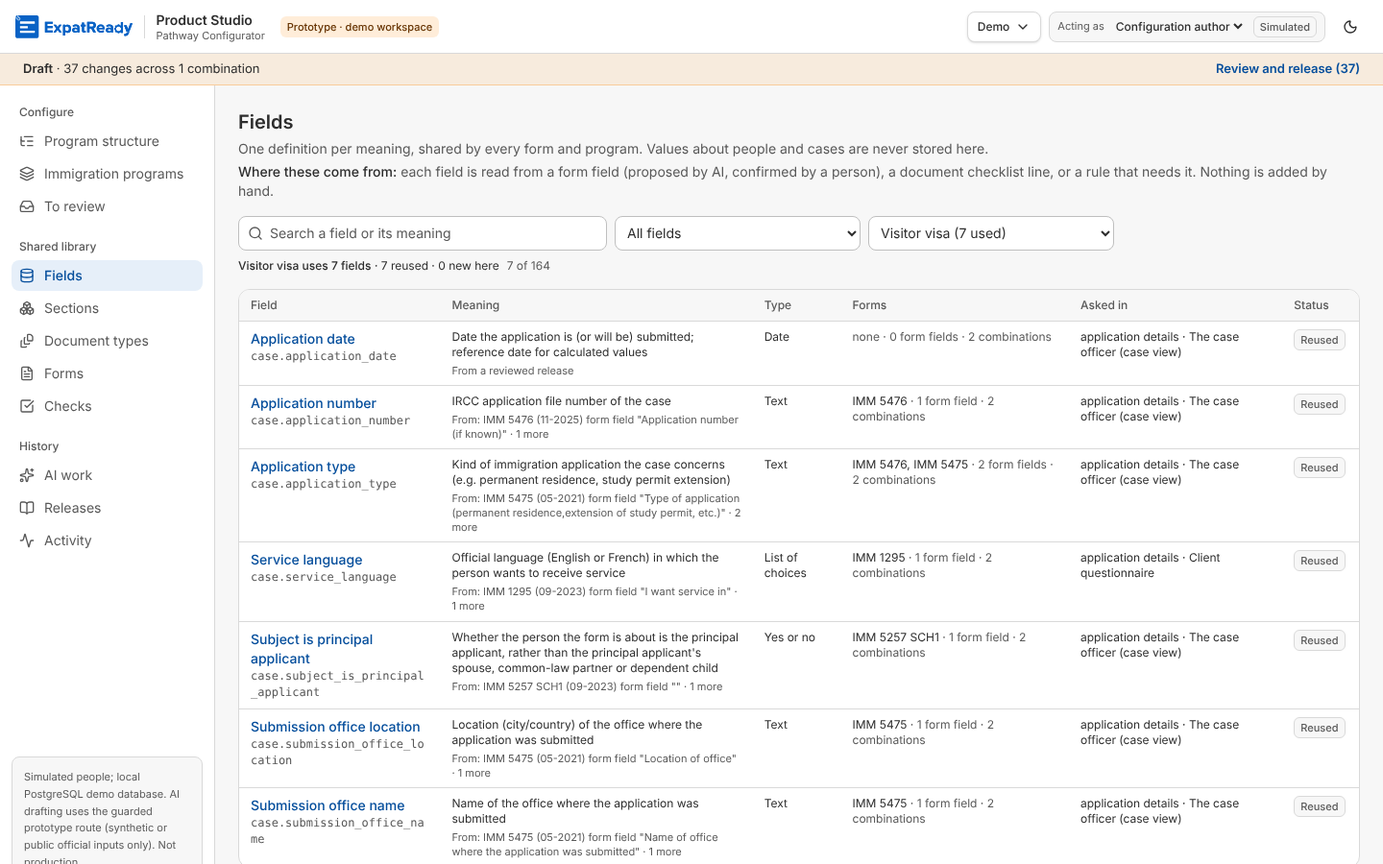
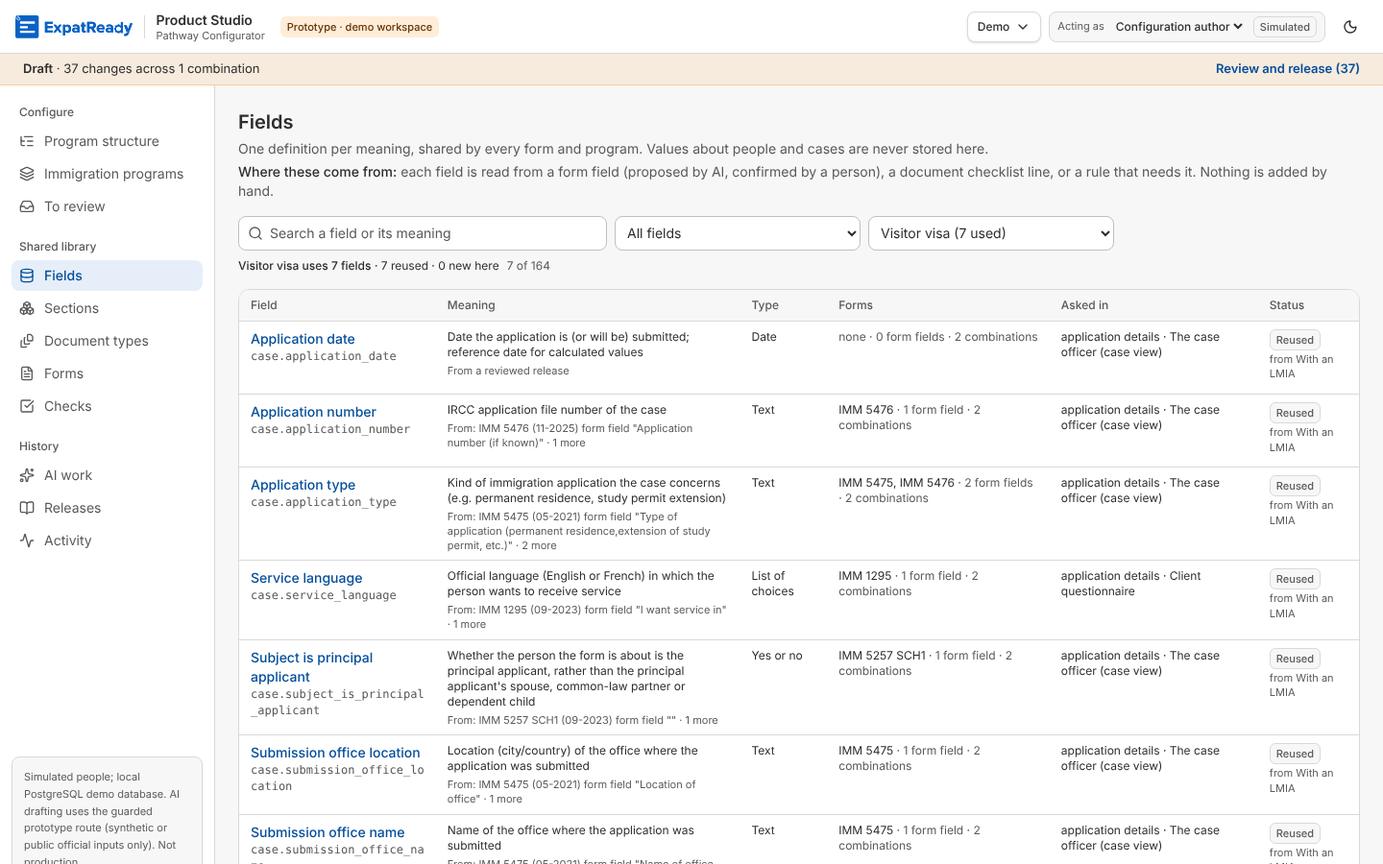
screens: C3.13 review fixes — brought in by the combination that added the item; only library items counted
Review c313 M1/M2: the combination credited is the one on the item's first ADD library change
(stable), else the first released; no longer setup-row updatedAt (moved on release). M3: totals
count only library items. Minors: 'from <combination>' as visible text; nothing drawn until the
marks load; route and rule recorded in build-notes-c313.md. Fail-first tests for each.

Claude-Session: https://claude.ai/code/session_01Ln6TiTtq4QNLZD8Skk7yrT

diff --git a/ai-workers/problem-1-pathway-setup-and-form-filling/prototype/studio/web/src/pages/library.tsx b/ai-workers/problem-1-pathway-setup-and-form-filling/prototype/studio/web/src/pages/library.tsx
@@ -41,7 +41,9 @@ function useReuse(kind: "fields" | "sections" | "document-types") {
   const r = useApi<ReuseView>(["library-reuse", kind, combination], `/library/reuse/${kind}${combination ? `?combination=${encodeURIComponent(combination)}` : ""}`);
   const choose = (key: string) => setParams((p) => { const n = new URLSearchParams(p); if (key) n.set("combination", key); else n.delete("combination"); return n; }, { replace: true });
   const items = combination && r.data?.combination ? r.data.items ?? {} : null;
-  return { combination, choose, view: r.data, error: r.isError ? (r.error as Error).message : null, items, keep: (key: string) => !items || key in items };
+  // Review c313 m2: with a combination in the address, nothing is drawn until its marks are known (no whole list first).
+  const waiting = !!combination && r.isLoading;
+  return { combination, choose, view: r.data, waiting, error: r.isError ? (r.error as Error).message : null, items, keep: (key: string) => !waiting && (!items || key in items) };
 }
 /** The Combination chooser and, once one is chosen, its totals ("18 · 12 reused · 6 new here"). */
 function ReuseBar({ reuse, noun }: { reuse: ReturnType<typeof useReuse>; noun: string }) {
@@ -52,7 +54,8 @@ function ReuseBar({ reuse, noun }: { reuse: ReturnType<typeof useReuse>; noun: s
   </>;
 }
 /** A row's mark with a combination chosen: Reused (another combination brought it in) or New here. */
-const ReuseMark = ({ reuse, k }: { reuse: ReturnType<typeof useReuse>; k: string }) => { const it = reuse.items?.[k]; return !it ? null : it.in_combination === "NEW" ? <Pill tone="info" title={`${reuse.view?.combination?.label} brought it into the library`}>New here</Pill> : <Pill title={`Brought in by ${it.brought_in_by}`}>Reused</Pill>; };
+/** Review c313 m1: who brought a reused item in is visible text, not only a hover title. */
+const ReuseMark = ({ reuse, k }: { reuse: ReturnType<typeof useReuse>; k: string }) => { const it = reuse.items?.[k]; return !it ? null : it.in_combination === "NEW" ? <Pill tone="info">New here</Pill> : <span data-reused className="inline-flex flex-col gap-0.5"><Pill>Reused</Pill><span className="text-[11px] text-text-muted">from {it.brought_in_by}</span></span>; };
 const NoneInCombination = ({ reuse, noun }: { reuse: ReturnType<typeof useReuse>; noun: string }) => <EmptyState title={`${reuse.view?.combination?.label} uses no ${noun}s yet`} description="Choose All combinations to see the whole library, or set up this combination first." />;
 
 export function FieldsPage() {
@@ -70,7 +73,7 @@ export function FieldsPage() {
         <ReuseBar reuse={reuse} noun="field" />
         <span className="text-xs text-text-muted">{rows.length} of {list.data?.length ?? 0}</span>
       </div>
-      {list.isLoading ? <Spinner label="Loading fields" /> : !list.data?.length ? <EmptyState title="The library is empty" description="Load sample inputs, or add a form with AI drafting; reviewed fields land here." /> : reuse.items && !Object.keys(reuse.items).length ? <NoneInCombination reuse={reuse} noun="field" /> : (
+      {list.isLoading || reuse.waiting ? <Spinner label="Loading fields" /> : !list.data?.length ? <EmptyState title="The library is empty" description="Load sample inputs, or add a form with AI drafting; reviewed fields land here." /> : reuse.items && !Object.keys(reuse.items).length ? <NoneInCombination reuse={reuse} noun="field" /> : (
         <Table head={["Field", "Meaning", "Type", "Forms", "Asked in", "Status"]}>
           {rows.slice(0, 400).map((f) => <tr key={f.key}><td><Link className="font-medium text-text-link hover:underline" to={`/library/fields/${encodeURIComponent(f.key)}`}>{f.name ?? fieldName(f.key)}</Link><p className="mono break-all text-[11px] text-text-muted">{f.key}</p></td><td className="max-w-md text-xs">{f.meaning}<SourceNote r={f} /></td><td className="text-xs">{TYPE_WORD[f.value_type] ?? f.value_type}</td><td className="text-xs">{f.forms.join(", ") || <span className="text-text-muted">none</span>}<span className="text-text-muted"> · {f.boxes} form field{f.boxes === 1 ? "" : "s"}{f.used_in?.length ? ` · ${f.used_in.length} combination${f.used_in.length === 1 ? "" : "s"}` : ""}</span></td><td className="text-xs">{f.placement ? `${f.placement.section.replace(/_/g, " ")} · ${collectedWord(f.placement.collected_from)}` : <span className="text-text-warn">not placed</span>}</td><td><div className="flex flex-wrap gap-1"><ReuseMark reuse={reuse} k={f.key} /><ListPill origin={f.origin} status={f.status} /></div></td></tr>)}
         </Table>
@@ -163,7 +166,7 @@ export function SectionsPage() {
     <div className="mx-auto max-w-6xl space-y-4">
       <div><h1 className="text-xl font-semibold">Sections</h1><p className="mt-1 text-sm text-text-muted">Reusable groups of questions. Each combination selects the sections its questionnaire uses.</p><Origin>the forms' own parts, each confirmed on To review. Nothing is added by hand; a combination picks its sections on its Questionnaires tab.</Origin></div>
       <div className="flex flex-wrap items-center gap-2"><ReuseBar reuse={reuse} noun="section" /></div>
-      {s.isLoading ? <Spinner label="Loading" /> : !s.data?.length ? <EmptyState title="No sections yet" description="Sections come with the forms' parts; add a form first." /> : !shown.length ? <NoneInCombination reuse={reuse} noun="section" /> : <Table head={["Section", "Meaning", "Questions", "Used by combinations", "Status", ""]}>{shown.map((x) => <tr key={x.key}><td className="font-medium">{x.title}</td><td className="max-w-lg text-xs text-text-muted">{x.meaning}<SourceNote r={x} /></td><td>{x.questions}</td><td className="text-xs">{usedWords(x.used_in)}</td><td><div className="flex flex-wrap gap-1"><ReuseMark reuse={reuse} k={x.key} /><ListPill origin={x.origin} status={x.status} /></div></td><td><Button variant="ghost" size="sm" aria-label={`Rename ${x.title}`} onClick={() => setEditing({ key: x.key, title: x.title })}><Pencil /> Rename</Button></td></tr>)}</Table>}
+      {s.isLoading || reuse.waiting ? <Spinner label="Loading" /> : !s.data?.length ? <EmptyState title="No sections yet" description="Sections come with the forms' parts; add a form first." /> : !shown.length ? <NoneInCombination reuse={reuse} noun="section" /> : <Table head={["Section", "Meaning", "Questions", "Used by combinations", "Status", ""]}>{shown.map((x) => <tr key={x.key}><td className="font-medium">{x.title}</td><td className="max-w-lg text-xs text-text-muted">{x.meaning}<SourceNote r={x} /></td><td>{x.questions}</td><td className="text-xs">{usedWords(x.used_in)}</td><td><div className="flex flex-wrap gap-1"><ReuseMark reuse={reuse} k={x.key} /><ListPill origin={x.origin} status={x.status} /></div></td><td><Button variant="ghost" size="sm" aria-label={`Rename ${x.title}`} onClick={() => setEditing({ key: x.key, title: x.title })}><Pencil /> Rename</Button></td></tr>)}</Table>}
       {editing ? <RenameSection section={editing} onClose={() => setEditing(null)} /> : null}
     </div>
   );
@@ -187,7 +190,7 @@ export function DocumentTypesPage() {
     <div className="mx-auto max-w-6xl space-y-4">
       <div><h1 className="text-xl font-semibold">Document types</h1><p className="mt-1 text-sm text-text-muted">Reusable document definitions. The facts a supported document can supply are a proposal until reading that document proves them on a case.</p><Origin>the document checklist lines of each combination (its official checklist, quoted), applied on the combination's Documents tab. Nothing is added by hand.</Origin></div>
       <div className="flex flex-wrap items-center gap-2"><ReuseBar reuse={reuse} noun="document type" /></div>
-      {t.isLoading ? <Spinner label="Loading" /> : !t.data?.length ? <EmptyState title="No document types yet" /> : !shown.length ? <NoneInCombination reuse={reuse} noun="document type" /> : <Table head={["Document type", "Category", "Facts it can supply", "Used by combinations", "Status"]}>{shown.map((x) => <tr key={x.documentTypeKey}><td className="max-w-md font-medium">{x.name}<SourceNote r={x} /></td><td className="text-xs">{CATEGORY_WORD[x.category] ?? x.category}</td><td className="max-w-lg text-xs">{x.suppliesFacts?.length ? x.suppliesFacts.map(fieldName).join(", ") : <span className="text-text-muted">none recorded</span>}</td><td className="text-xs">{usedWords(x.used_in)}</td><td><div className="flex flex-wrap gap-1"><ReuseMark reuse={reuse} k={x.documentTypeKey} /><ListPill origin={x.origin} status={x.status} /></div></td></tr>)}</Table>}
+      {t.isLoading || reuse.waiting ? <Spinner label="Loading" /> : !t.data?.length ? <EmptyState title="No document types yet" /> : !shown.length ? <NoneInCombination reuse={reuse} noun="document type" /> : <Table head={["Document type", "Category", "Facts it can supply", "Used by combinations", "Status"]}>{shown.map((x) => <tr key={x.documentTypeKey}><td className="max-w-md font-medium">{x.name}<SourceNote r={x} /></td><td className="text-xs">{CATEGORY_WORD[x.category] ?? x.category}</td><td className="max-w-lg text-xs">{x.suppliesFacts?.length ? x.suppliesFacts.map(fieldName).join(", ") : <span className="text-text-muted">none recorded</span>}</td><td className="text-xs">{usedWords(x.used_in)}</td><td><div className="flex flex-wrap gap-1"><ReuseMark reuse={reuse} k={x.documentTypeKey} /><ListPill origin={x.origin} status={x.status} /></div></td></tr>)}</Table>}
     </div>
   );
 }

diff --git a/ai-workers/problem-1-pathway-setup-and-form-filling/prototype/studio/api/src/library-sources.ts b/ai-workers/problem-1-pathway-setup-and-form-filling/prototype/studio/api/src/library-sources.ts
@@ -142,39 +142,53 @@ export class LibrarySources {
     return out;
   }
 
-  /** C3.13 (Screen 04 BR-4, P-37): with a combination chosen, each item it uses is "Reused" (another combination brought
-   *  it into the library first) or "New here" (this combination brought it in), with the totals. The combination that
-   *  brought an item in is, of the combinations using it, the one whose setup started first: its earliest setup line
-   *  (a form, checklist, rule or check line); a combination with none yet comes after every one that has, then by the
-   *  time it was created. Without a combination: the combinations to choose from, each with how many items it uses. */
+  /** C3.13 (Screen 04 BR-4, P-37): with a combination chosen, each library item it uses is "Reused" (it was in the library
+   *  before this combination: another combination brought it in) or "New here" (this combination brought it in), with
+   *  the totals. The combination that brought an item in is the one its first ADD library change names (every way into
+   *  the library writes one with the combination it came from: an AI proposal, a document type named on a checklist
+   *  line); that record never changes, so a release or an edit elsewhere never flips the mark (review c313 M1, M2). An
+   *  item with no such record (loaded with the sample setup's release) was brought in by the first of its combinations
+   *  to be released, then the first created. Only items in the library count (review c313 M3: values a rule calculates
+   *  are not fields). Without a combination: the combinations to choose from, each with how many items it uses. */
   async reuse(kindWord: string, combination: string | undefined) {
     const kind = (KINDS as Record<string, Kind>)[kindWord];
     if (!kind) throw problem(404, "Not found", `There is no library list "${kindWord}": use fields, sections, document-types or answer-lists.`);
     const workspaceId = await this.ws.id();
-    const [combos, used] = await Promise.all([this.db.combination.findMany({ where: { workspaceId }, select: { id: true, combinationKey: true, label: true, createdAt: true } }), this.usedInIds(kind, workspaceId)]);
+    const [combos, usedAll, inLibrary] = await Promise.all([
+      this.db.combination.findMany({ where: { workspaceId }, select: { id: true, combinationKey: true, label: true, createdAt: true } }),
+      this.usedInIds(kind, workspaceId),
+      this.keysOf(kind, workspaceId),
+    ]);
+    const used = new Map([...usedAll].filter(([k]) => inLibrary.has(k)));
     const uses = (id: string) => [...used.values()].filter((s) => s.has(id)).length;
     const combinations = combos.map((c) => ({ id: c.id, key: c.combinationKey, label: c.label, uses: uses(c.id) })).sort((a, b) => a.label.localeCompare(b.label));
     if (combination === undefined || combination === "") return { combinations, combination: null };
     const chosen = combos.find((c) => c.id === combination || c.combinationKey === combination);
     if (!chosen) throw problem(404, "Not found", "That combination is not in this workspace. Choose one from the list.");
-    const firsts = await Promise.all([
-      this.db.combinationForm.groupBy({ by: ["combinationId"], where: { workspaceId }, _min: { updatedAt: true } }),
-      this.db.documentRequirement.groupBy({ by: ["combinationId"], where: { workspaceId }, _min: { updatedAt: true } }),
-      this.db.predicate.groupBy({ by: ["combinationId"], where: { workspaceId }, _min: { updatedAt: true } }),
-      this.db.check.groupBy({ by: ["combinationId"], where: { workspaceId }, _min: { updatedAt: true } }),
+    const mine = [...used].filter(([, s]) => s.has(chosen.id)).map(([k]) => k);
+    const [adds, releases] = await Promise.all([
+      this.db.libraryChange.findMany({ where: { workspaceId, kind, action: "ADD", key: { in: mine }, combinationId: { not: null } }, orderBy: { proposedAt: "asc" }, select: { key: true, combinationId: true } }),
+      this.db.configRelease.groupBy({ by: ["combinationId"], where: { workspaceId }, _min: { releasedAt: true } }),
     ]);
-    const started = new Map<string, number>();
-    for (const g of firsts.flat()) { const t = g._min.updatedAt?.getTime(); if (t !== undefined && t < (started.get(g.combinationId) ?? Infinity)) started.set(g.combinationId, t); }
-    const order = (id: string) => { const c = combos.find((x) => x.id === id)!; return [started.get(id) ?? Infinity, c.createdAt.getTime(), c.combinationKey] as const; };
-    const before = (a: string, b: string) => { const [x, y] = [order(a), order(b)]; return x[0] !== y[0] ? x[0] < y[0] : x[1] !== y[1] ? x[1] < y[1] : x[2] < y[2]; };
+    const addedBy = new Map<string, string>(); for (const a of adds) if (!addedBy.has(a.key) && combos.some((c) => c.id === a.combinationId)) addedBy.set(a.key, a.combinationId!);
+    const released = new Map(releases.map((r) => [r.combinationId, r._min.releasedAt?.getTime() ?? Infinity]));
+    const rank = (id: string) => { const c = combos.find((x) => x.id === id)!; return [released.get(id) ?? Infinity, c.createdAt.getTime(), c.combinationKey] as const; };
+    const before = (a: string, b: string) => { const [x, y] = [rank(a), rank(b)]; return x[0] !== y[0] ? x[0] < y[0] : x[1] !== y[1] ? x[1] < y[1] : x[2] < y[2]; };
     const items: Record<string, { in_combination: "REUSED" | "NEW"; brought_in_by: string }> = {};
-    for (const [key, s] of used) {
-      if (!s.has(chosen.id)) continue;
-      const first = [...s].reduce((a, b) => (before(b, a) ? b : a));
+    for (const key of mine) {
+      const first = addedBy.get(key) ?? [...used.get(key)!].reduce((a, b) => (before(b, a) ? b : a));
       items[key] = { in_combination: first === chosen.id ? "NEW" : "REUSED", brought_in_by: combos.find((c) => c.id === first)!.label };
     }
     const all = Object.values(items), reused = all.filter((x) => x.in_combination === "REUSED").length;
     return { combinations, combination: { id: chosen.id, key: chosen.combinationKey, label: chosen.label }, total: all.length, reused, new: all.length - reused, items };
+  }
+
+  /** The keys of one kind's items in the library (any version), so a list's counts count only what the list shows. */
+  private async keysOf(kind: Kind, workspaceId: string): Promise<Set<string>> {
+    if (kind === "field") return new Set((await this.db.canonicalField.findMany({ where: { workspaceId }, distinct: ["canonicalFieldKey"], select: { canonicalFieldKey: true } })).map((r) => r.canonicalFieldKey));
+    if (kind === "section") return new Set((await this.db.logicalSection.findMany({ where: { workspaceId }, distinct: ["sectionKey"], select: { sectionKey: true } })).map((r) => r.sectionKey));
+    if (kind === "document_type") return new Set((await this.db.documentType.findMany({ where: { workspaceId }, distinct: ["documentTypeKey"], select: { documentTypeKey: true } })).map((r) => r.documentTypeKey));
+    return new Set((await this.db.answerList.findMany({ where: { workspaceId }, distinct: ["answerListKey"], select: { answerListKey: true } })).map((r) => r.answerListKey));
   }
 
   async sources(kindWord: string, key: string): Promise<SourcesView> {

diff --git a/ai-workers/problem-1-pathway-setup-and-form-filling/prototype/studio/tests/check_c313_reuse.ts b/ai-workers/problem-1-pathway-setup-and-form-filling/prototype/studio/tests/check_c313_reuse.ts
@@ -3,7 +3,10 @@
 // to choose from carry how many items each uses. A passing and a failing case per rule, through the API on an isolated
 // copy with the sample inputs loaded (the demo is never touched). No browser, NO model call (US$0).
 //   zsh studio/tools/isolated.sh screens_reuse 4447 start && tsx studio/tests/check_c313_reuse.ts 4447 xr_studio_screens_reuse
-const PORT = Number(process.argv[2] ?? 4447);
+import { execFileSync } from "node:child_process";
+
+const PORT = Number(process.argv[2] ?? 4447), DB = process.argv[3] ?? "xr_studio_screens_reuse";
+const sql = (q: string) => execFileSync("/opt/homebrew/opt/postgresql@18/bin/psql", [`postgresql://xr_studio@127.0.0.1:54329/${DB}`, "-Atc", q], { encoding: "utf8" }).trim();
 let pass = 0, fail = 0;
 const ok = (name: string, c: unknown, detail?: unknown) => { c ? pass++ : fail++; console.log(`${c ? "PASS" : "FAIL"}  ${name}${detail !== undefined ? ` — ${JSON.stringify(detail).slice(0, 300)}` : ""}`); };
 type Res = { status: number; body: any }; // eslint-disable-line @typescript-eslint/no-explicit-any -- test responses are read loosely, as in the other API checks
@@ -49,6 +52,30 @@ type Item = { in_combination: "REUSED" | "NEW"; brought_in_by: string };
   await call("DELETE", `/combinations/${vv.id}/sections/${s0.key}`);
   const gone = await call("GET", "/library/reuse/sections?combination=vv.single");
   ok("C3.13 fail: once the section is taken off again, the second combination uses nothing (0 · 0 reused · 0 new)", gone.body.total === 0 && gone.body.reused === 0 && gone.body.new === 0, gone.body);
+
+  // ─────────────────── Review c313 M3: only library items count (values a rule calculates are not fields)
+  const libFields = new Set(((await call("GET", "/library/fields")).body as { key: string }[]).map((f) => f.key));
+  const lf = await call("GET", "/library/reuse/fields?combination=wp.family");
+  const lfKeys = Object.keys(lf.body.items);
+  ok("C3.13 M3 pass: the Fields totals count only fields in the library (every marked key is a Fields row)", lf.body.total > 0 && lfKeys.length === lf.body.total && lfKeys.every((k) => libFields.has(k)), lfKeys.filter((k) => !libFields.has(k)).slice(0, 5));
+  ok("C3.13 M3 fail: a value a rule calculates (person.age_years, read by the rules) is not counted as a field", !libFields.has("person.age_years") && !("person.age_years" in lf.body.items) && lf.body.combinations.find((c: { key: string }) => c.key === "wp.family").uses === lf.body.total);
+
+  // ─────────────────── Review c313 M1, M2: the combination that brought an item in is the one that added it
+  const sp = r.body.combinations.find((c: { key: string }) => c.key === "sp.student");
+  const line = (newTypeName?: string, documentTypeKey?: string) => ({ ...(newTypeName ? { newTypeName } : { documentTypeKey }), attachMode: "COMBINATION_MANDATORY", appliesToRoles: "principal_applicant", providedBy: "client", sourceQuote: "C3.13 test line." });
+  const spAdd = await call("POST", `/combinations/${sp.id}/requirements`, line("C313 probe letter"));
+  const probe = sql("select key from library_change where kind='document_type' and label='C313 probe letter'");
+  const lmAdd = await call("POST", `/combinations/${lmia.id}/requirements`, line(undefined, probe));
+  ok("setup: Study permit names a new document type on a checklist line; With an LMIA (set up first) then uses it too", spAdd.status === 201 && lmAdd.status === 201 && !!probe, [spAdd.status, lmAdd.status, spAdd.body?.detail, lmAdd.body?.detail]);
+  const mark = async (combo: string) => (await call("GET", `/library/reuse/document-types?combination=${combo}`)).body.items[probe] as Item | undefined;
+  let [spM, lmM] = [await mark("sp.student"), await mark("wp.family")];
+  ok("C3.13 M1 pass: the combination that added the item is credited (Study permit: New here), even though another was set up first", spM?.in_combination === "NEW" && spM.brought_in_by === "Study permit", spM);
+  ok("C3.13 M1 fail: the combination set up first but taking the item up later is not credited (With an LMIA: Reused, from Study permit)", lmM?.in_combination === "REUSED" && lmM.brought_in_by === "Study permit", lmM);
+  // A release or an edit rewrites setup rows (their updated time moves): the marks do not flip.
+  sql(`update document_requirement set updated_at = now() + interval '1 hour' where combination_id='${sp.id}'`);
+  sql(`update document_requirement set updated_at = now() - interval '30 days' where combination_id='${lmia.id}'`);
+  [spM, lmM] = [await mark("sp.student"), await mark("wp.family")];
+  ok("C3.13 M2 fail: rewriting the setup rows' times (as a release or an edit does) does not flip the marks", spM?.in_combination === "NEW" && lmM?.in_combination === "REUSED" && lmM.brought_in_by === "Study permit", [spM, lmM]);
 
   // ─────────────────── Refusals, in words
   const [unknown, kind, nobody] = await Promise.all([call("GET", "/library/reuse/fields?combination=no.such"), call("GET", "/library/reuse/forms?combination=wp.family"), call("GET", "/library/reuse/fields", undefined, null)]);

diff --git a/ai-workers/problem-1-pathway-setup-and-form-filling/product/screens/04-shared-library/review-c313.md b/ai-workers/problem-1-pathway-setup-and-form-filling/product/screens/04-shared-library/review-c313.md
@@ -1,0 +1,41 @@
+# Review: C3.13 reused vs new per combination (Screen 04 BR-4), commit c0006eb0
+
+Reviewer: independent reviewer agent (did not build it). Branch `claude/screens-c313-reuse`, diff `origin/main..c0006eb0`. Own isolated copy on :4449 (`rev_c313`); :4400 not used. No AI calls.
+Journey test: `journey-test-reviewer-2026-11-01-c313.md` in this folder. **Journey score 7.5 / 10 (fail: pass is 8)**.
+
+**Verdict: Block** (Changes needed / Ship after fixes): 3 Majors open, listed at the end.
+
+## What holds
+* All three lists (Fields, Sections, Document types) have a Combination chooser, kept in the address (`?combination=<key>`), so a reload or a shared link keeps it. "All combinations" brings the whole list back. Totals read "With an LMIA uses 18 sections · 0 reused · 18 new here". Each row shows a Reused or New here pill next to the origin/status pill. A combination that uses nothing gets an empty state that teaches what to do. An unknown combination gets a `role=alert` in words and the full list stays.
+* Server: `readerOf` on the new route. No person gives 401, an unknown person 401, a studio reader (user-C) 200. Unknown list or combination: 404 Problem Details in words. Grouped queries, no per-row requests. API time 6–44 ms; first view 600 ms.
+* Builder suites rerun by me on fresh copies at c0006eb0: `check_c313_reuse.ts` 15/15, `check_c313_reuse_browser.cjs` 24/24. The "brought in" test does fail when the rule is replaced by `createdAt`: vv.single was created before wp.family, so it would turn New.
+* axe WCAG 2.2 A/AA is clean on the chosen, empty and unknown states. No sideways scroll at 400, 1024, 1440 px or at 200 % zoom (720 CSS px at DPR 2) on all three pages. Keyboard: the chooser is reached in 16 Tabs with a visible focus ring, and arrow keys choose.
+* Graph (`graph.mjs`): G1–G6 show no gap for this item. `GET /library/reuse/:kind` is tested by `check_c313_reuse.ts`. The graph does not see the web call because the path is a template; that is a tool blind spot, not a finding.
+
+## Issues (ranked)
+1. **Major (Must): the rule credits the combination that started first, not the one that brought the item in.** Concept §2 Links says "first combination that brought the item in". BR-4 says "Reused (in the library before this combination)", and PRODUCT §1 says "the next combination, which reuses what exists". Reproduced on :4449: Study permit added a new document type "Reviewer probe two" (it created the type). One second later With an LMIA added the same type. Study permit then shows **Reused, "Brought in by With an LMIA"** and LMIA shows it **New here**, which is the reverse of what happened. Cause: `library-sources.ts:58-67` ranks whole combinations by their earliest setup line and never looks at when each combination took up *this item*. Fix: rank per item, by when each combination first used it. Stable per-item times already exist in `audit_event` (`at`, `combinationId`, `entity`, `entityKey`: section picks, requirement lines, form attaches). The other option is a `createdAt` added to the usage rows (expand-only migration). Add a pass/fail test for this exact sequence.
+2. **Major (Must): the ordering key is `updatedAt`, so New/Reused flips when another combination is released or edited.** All four tables have only `@updatedAt` (`schema.prisma`; no `createdAt`). Releasing a combination updates every one of its draft rows to PUBLISHED (`studio.ts:809`), and a retire also updates a row (`studio.ts:526`). Reproduced: Study permit and High-wage position each added the same new document type, Study permit first, so Study permit = New and High-wage = Reused. I then re-saved Study permit's draft row exactly as its release would (`updated_at = now()`). Study permit flipped to **Reused, brought in by High-wage position**, and High-wage flipped to New. Nothing about the item changed. Fix: use a time that never changes (same source as issue 1).
+3. **Major (Must): the Fields totals count 21 calculated facts that are not library fields.** With an LMIA reads "uses 185 fields · 0 reused · 185 new here" and "(185 used)" in the chooser, but the list shows "164 of 164" rows. The 21 extra keys are rule-derived values such as `person.age_years` and `person.passport_days_until_expiry` (screenshot `/tmp/revc313/shots/size-1024-1-fields.png`). This breaks EXPERIENCE §2.7 [M] "counts say what they count" and BR-4's totals. Fix: in `reuse()` for `field`, count only keys that are library fields (intersect with the canonical field keys). Add the test that is missing: Fields total = the number of rows marked in the list (today it is checked for Sections and Document types only).
+4. Minor (Should): "Brought in by …" lives only in the pill's `title` (`library.tsx:273`). The pill is a `span`, so keyboard and touch users cannot read who brought the item in (EXPERIENCE §2.10 [M] tooltips). This is the team's Pill pattern, so it is Minor. Fix: a focusable tooltip, or the name as text in the pill's accessible label.
+5. Minor (Should): with `?combination=` in the address, Sections and Document types first draw the whole list, then cut it down once the reuse answer arrives (`useReuse`: `items` is null while loading, so `keep()` passes every row). Fix: show the spinner until the reuse answer is in.
+6. Minor (Should): the concept's contract line is `GET /library/:kind?combination=` (one request per view, STANDARDS §4 [M]). The build uses a separate route, so each view makes two requests, and `ReuseView` is a web-only type with no shared zod contract (STANDARDS §5 [M]). The route deviation and the "brought in" interpretation are recorded only in the PR or commit message, not in this folder ("never deviate silently"). Fix: record both in a `build-notes.md` or `challenge.md` here, or fold the route into the list route.
+7. Minor (Should): neither suite can be rerun on the same copy. `/demo/load` refuses a loaded workspace, and the browser suite leaves Visitor visa's section picked, which then fails the API suite's "uses 0". On my run on the same copy that gave 14/15 and 21/24. Fix: reset first, or undo the pick at the end.
+
+## [M] lines of STANDARDS and EXPERIENCE (only the ones this change touches; the rest are untouched, so N/A)
+STANDARDS: stack and gate (no new technology): met · modules and services (library-sources only, studio.ts untouched): met · no schema change: met · read paths: no N+1 (met), one request per view (not met, issue 6) · contract first (zod): not met for the response (issue 6) · Problem Details: met · authorisation deny by default: met · strict TS, no `any` in the new code: met (the pages keep their existing `any[]`) · a rule's test fails when the rule is removed: met for totals and the "set up first" rule, not met for fields totals (issue 3) · axe on every state: met · performance budget: met.
+EXPERIENCE: team look and tokens (Pill, Select, EmptyState): met · status by shape and text: met · counts say what they count: not met (issue 3) · tooltips on every status: partly met (issue 4) · accessible (keyboard, 1024 px, 200 %): met · empty states: met · plain words (PRODUCT §4, no keys on the main path): met.
+
+## D1–D20 (1–5)
+D1 Requirement fit 2: BR-4 is built, but the "brought in" answer is wrong in an ordinary sequence (issue 1). · D2 Data integrity 3: read-only, but the shown values are unstable (issue 2). · D3 Reuse 4: shows reuse correctly on the sample for Sections and Document types. · D4 Rule integrity N/A. · D5 Stability 3: reload and back are fine; labels flip on release (issue 2); suites not rerunnable (issue 7). · D6 Freshness/governance 3: "brought in by" exists but rests on a mutable time. · D7 AI trust N/A (no AI). · D8 Orientation 4: the chooser and totals sit with the filters. · D9 Flow 4: one choice, URL-kept. · D10 Language 4: "Reused / New here / uses N · R reused · M new here". · D11 Feedback 3: alert on error; list flash (issue 5). · D12 Visual 4: team components, clean at all widths. · D13 Accessibility 4: axe clean, keyboard, 200 %; tooltip not reachable. · D14 Team look 4. · D15 Speed 5: 600 ms first view, reuse 6–44 ms. · D16 Testability 3: pass and fail cases exist; missing the per-item and fields-total cases. · D17 simulated only. · D18 Provenance 2: the named origin combination can be wrong (issues 1, 2). · D19 E2E closure 3: the "34 reused · 12 new" moment of the proof loop is visible, but its numbers are not yet trustworthy. · D20 simulated only.
+
+## Retrofit mapping
+The concept maps this to the team's list route with `?combination=`. The build maps it to a new `GET /library/reuse/:kind`. This is not recorded in the screen folder (issue 6).
+
+## Could not check
+A real screen reader. An intended user's unaided walk (D17, D20 stay with the founder). A true end-to-end release by two people to show issue 2 through the UI: I simulated it with the same column update the release code makes (`studio.ts:809`), on my isolated database only.
+
+## To fix before Approve
+1. Rank "brought in" per item, by when each combination first used it (issue 1).
+2. Use a time that never changes, not `updatedAt` (issue 2).
+3. Fields totals count only library fields, and a test compares them with the rows (issue 3).
+Minors 4–7 are recommended but do not block.

diff --git a/ai-workers/problem-1-pathway-setup-and-form-filling/product/screens/04-shared-library/journey-test-reviewer-2026-11-01-c313.md b/ai-workers/problem-1-pathway-setup-and-form-filling/product/screens/04-shared-library/journey-test-reviewer-2026-11-01-c313.md
@@ -1,0 +1,49 @@
+# Journey test, reviewer, 1 Nov 2026: C3.13 reused vs new (Screen 04 BR-4), commit c0006eb0
+
+Copy: isolated `rev_c313` on :4449, sample inputs loaded, user-A (Configuration author). Headless Chromium (Playwright), driven only through what a person sees. My walk script and screenshots are in `/tmp/revc313/` (not committed). Builder suites rerun on fresh copies: 15/15 and 24/24.
+
+## Journeys (persona: content publisher, unless noted)
+1. **Main.** "How much of the LMIA combination is new to the library?" Sections → keyboard Tab to Combination → arrow to a combination → read the totals and the row pills. *Held:* the chooser is reached in 16 Tabs with a visible ring, the totals appear at once, and the URL keeps `?combination=`.
+2. **Alternate.** Visitor visa reuses a section the LMIA uses. *Held:* "uses 1 section · 1 reused · 0 new here", pill Reused (builder suite, rerun).
+3. **Empty.** Fields for Visitor visa. *Held:* "Visitor visa uses no fields yet" with a teaching line; axe clean.
+4. **Error.** `?combination=no.such`. *Held:* an alert in words, the full list kept, the chooser back on All combinations; axe clean.
+5. **Recovery.** Reload, then All combinations. *Held:* the choice survives reload; All restores the full list and clears the URL.
+6. **Wrong role and no person** (API). No person gives 401, an unknown person 401, a studio reader 200.
+7. **Sizes.** 400, 1024 and 1440 px, and 200 % zoom (720 CSS px at DPR 2), on all three pages. *Held:* no sideways scroll anywhere.
+8. **Fields with a combination.** Totals against rows. **Broke:** "uses 185 fields · 185 new here" against "164 of 164" rows. The 21 extra are calculated facts, not library fields.
+9. **Who brought it in (break-it).** Study permit adds a new document type, and LMIA adds the same type one second later. **Broke:** Study permit shows "Reused, Brought in by With an LMIA" and LMIA shows "New here", the reverse of what happened.
+10. **Release flips the label (break-it).** Study permit then High-wage position each add the same new type, so Study permit is New. I re-saved Study permit's draft row exactly as release does (`studio.ts:809`). **Broke:** Study permit flipped to Reused (brought in by High-wage position) and High-wage to New, with no change to the item.
+
+## Data underneath
+Nothing is written by this read model. The reuse figures for Sections and Document types match `used_in` on the list routes. For Fields they include 21 keys that are not on the list (journey 8). The attribution depends on `updatedAt` (journeys 9 and 10).
+
+## Findings
+* **Major:** "brought in" is ranked by the combination that started first, not by when each combination took up the item (`library-sources.ts:58-67`).
+* **Major:** the ordering uses `updatedAt`, so release and retire flip the labels.
+* **Major:** the Fields totals count calculated facts that are not library fields.
+* **Minor:** "Brought in by" is only a hover `title`, which keyboard and touch users cannot reach.
+* **Minor:** the full list flashes before the filter applies.
+* **Minor:** two requests per view instead of the contract's one.
+* **Minor:** the suites cannot be rerun on the same copy.
+
+Detail and fixes are in `review-c313.md`.
+
+## Score
+| Criterion | Score | Evidence |
+|---|---|---|
+| Task completed | 1 | Choose a combination and read the totals and pills on all three lists |
+| Next step obvious | ½ | The empty state says "set up this combination first" but gives no link to it |
+| Plain words | 1 | "Reused", "New here", "uses 18 sections · 0 reused · 18 new here" |
+| Feedback and state | ½ | Error alert is good; the full list flashes before the filter |
+| Correct data | ½ | Sections and Document types are right on the sample; Fields totals are wrong; attribution is wrong in journeys 9 and 10 |
+| Error recovery | 1 | Unknown combination in words; reload and All recover |
+| Accessibility and screen sizes | ½ | axe clean, keyboard, 400/1024/200 % fit; "brought in by" cannot be reached by keyboard |
+| Speed | 1 | First view 600 ms; reuse route 6–44 ms |
+| Visual quality | 1 | Team Pill, Select and EmptyState; aligned |
+| Trust and sources | ½ | The origin combination is named, but it can be wrong and is hover-only |
+| **Total** | **7.5 / 10** | **Fail** (pass is 8 or more with no 0) |
+
+Fixes that would raise it, most valuable first: rank per item with a time that never changes (Correct data, Trust); count only library fields in the Fields totals (Correct data); make "brought in by" readable without hover (Accessibility); hold the list until the reuse answer arrives (Feedback).
+
+## Not tested
+A real screen reader. A full two-person release through the UI (simulated by the same column update the release code makes, on my isolated database only). An intended user's unaided walk (D17 and D20 stay with the founder).

diff --git a/ai-workers/problem-1-pathway-setup-and-form-filling/product/qa/CAPABILITIES.md b/ai-workers/problem-1-pathway-setup-and-form-filling/product/qa/CAPABILITIES.md
@@ -36,7 +36,7 @@ Rows: the Lead (every product decision becomes a row or a backlog item the same 
 | C3.10 | 3 Library | Every screen and message says form field, shared field and field map; never "box" (P-63) | M2 | Works | deda0e6b 29 Oct | After-merge deda0e6b: wording sweep (38 pages × 2 widths): Fields lead with words, no "Canonical fields" or `yes_no`; Document types, Sections and Checks in plain words; QA-39, 71, 72 closed. Before: 0 "box" words (QA-37 closed); the field library still says "Canonical fields" and shows login ids (QA-39, Screen 04) |
 | C3.11 | 3 Library | A Signed PDF upload line automatically adds its signed-scan document requirement for that person (P-62 §3) | M2 | Not built | — | Screen 03 |
 | C3.12 | 3 Library | Content publisher adds forms to the library alone (one or many, shared intake), and sees the Forms list: code, title, edition as printed, published, field map, used by, status, with every edition and online version (P-123, P-32) | M2 | Partial | a9fe60c0 29 Oct | Explore a9fe60c0: the Forms list at 1024 and 1440 px clean; drawer has no system values. Built as the S4 Forms page (C11.11): Upload PDF many files, list with number, title, type, edition, IRCC accepts, used by, status; field map shown on the combination, not in this list |
-| C3.13 | 3 Library | Library lists (fields by section, sections, document types) show where used, origin (AI or person) and status; with a combination chosen, reused vs new with totals (P-37, Screen 04) | M2 | Built, awaiting qa | — | Built 1 Nov (screens, swarm builder J5): a Combination chooser on Fields, Sections and Document types (kept in the address, ?combination=<key>); with one chosen the list keeps what it uses, says "uses N · R reused · M new here" and marks each row Reused (its title names the combination that brought it in) or New here; GET /library/reuse/:kind. check_c313_reuse.ts 15/15, check_c313_reuse_browser.cjs 24/24 (1440 + 1024, axe). Where used, origin and status per row were already built (check_s6_library_*). Before: Screen 04 |
+| C3.13 | 3 Library | Library lists (fields by section, sections, document types) show where used, origin (AI or person) and status; with a combination chosen, reused vs new with totals (P-37, Screen 04) | M2 | Built, awaiting qa | — | Built 1 Nov (screens, swarm builder J5): a Combination chooser on Fields, Sections and Document types (kept in the address, ?combination=<key>); with one chosen the list keeps what it uses, says "uses N · R reused · M new here" and marks each row Reused ("from <the combination that added it>") or New here; GET /library/reuse/:kind; rule in screens/04-shared-library/build-notes-c313.md. check_c313_reuse.ts 21/21, check_c313_reuse_browser.cjs 24/24 (1440 + 1024, axe). Where used, origin and status per row were already built (check_s6_library_*). Before: Screen 04 |
 | C3.14 | 3 Library | Checks list and Shared library › Rules list, read-only, with where used and source (P-37, RULES-MODEL §7) | M2 | Not built | — | Screen 04 |
 | C3.15 | 3 Library | Author renames a shared field in the library drawer: direct, versioned, the exact-duplicate check runs; a meaning change needs a second person (P-96) | M2 | Not built | — | Screen 04 |
 | C4.9 | 4 Questionnaires | Author changes who fills a question (client or case officer) once in the library; a second person approves it on To review and it goes out with the next release; background and declaration stay with the client (P-97) | M2 | Works | 5f6c8deb 30 Oct | After-merge 5f6c8deb, walked at 1024 px: drawer › Change who fills; empty reason refused on the field ("Write at least 5 characters…", linked); with a reason it waits for a second person (author: Waiting for others; approver: Needs you, before → after, uses, reason); approval makes a placement draft (header Draft · 1, row Client); two proposals at once → one saved, one 409; approver proposing 403; 301-character reason 400; unknown question 404 in words. `check_who_fills` 26/26, browser 19/19. QA-113 (heading "Change who fills who fills"), QA-114 (drawer says the library already has the new value before the release) |

diff --git a/ai-workers/problem-1-pathway-setup-and-form-filling/product/screens/04-shared-library/build-notes-c313.md b/ai-workers/problem-1-pathway-setup-and-form-filling/product/screens/04-shared-library/build-notes-c313.md
@@ -1,0 +1,8 @@
+# C3.13 build notes — reused vs new per combination (swarm builder J5, 1 Nov)
+
+* **What:** a Combination chooser on Fields, Sections and Document types, kept in the address (`?combination=<key>`). With one chosen, the list keeps what that combination uses, says "uses N · R reused · M new here" and marks each row **Reused** (with "from <combination>" as visible text) or **New here** (Screen 04 BR-4, P-37).
+* **"Brought in by" (the rule, after review c313 M1/M2):** the combination named on the item's first ADD library change. Every way into the library writes one with its combination (an AI proposal lands with `combinationId`; a document type named on a checklist line too), and that record never changes, so a release or an edit elsewhere never flips a mark. An item with no such record (loaded with the sample setup's release) was brought in by the first of its combinations to be released, then the first created. The first attempt ranked whole combinations by their setup rows' `updatedAt`; the reviewer showed it credited the wrong combination and flipped on release. Fixed with fail-first tests.
+* **Counts (review M3):** only items in the library count; values a rule calculates (`person.age_years`) are not fields.
+* **Route, a deviation from the concept's contract line:** `GET /library/reuse/:kind?combination=` instead of a `combination` parameter on `GET /library/:kind`. Why: those list routes live in `api/src/studio.ts`, shared by twelve builders today (P-220: additive only); a separate read route in `library-sources.ts` touches no shared file. Cost: two requests per filtered view (the list and its marks); the page draws nothing until both are in. Folding it into the list routes later is a small change.
+* **No schema change.** A stable per-use time (a `createdAt` on the setup rows) would let "brought in by" also cover items with no ADD record; not needed while every way in writes one.
+* Tests: `tests/check_c313_reuse.ts` (21), `tests/check_c313_reuse_browser.cjs` (24, 1440 + 1024, axe). Both need a fresh copy each run (their usage lines start one).
